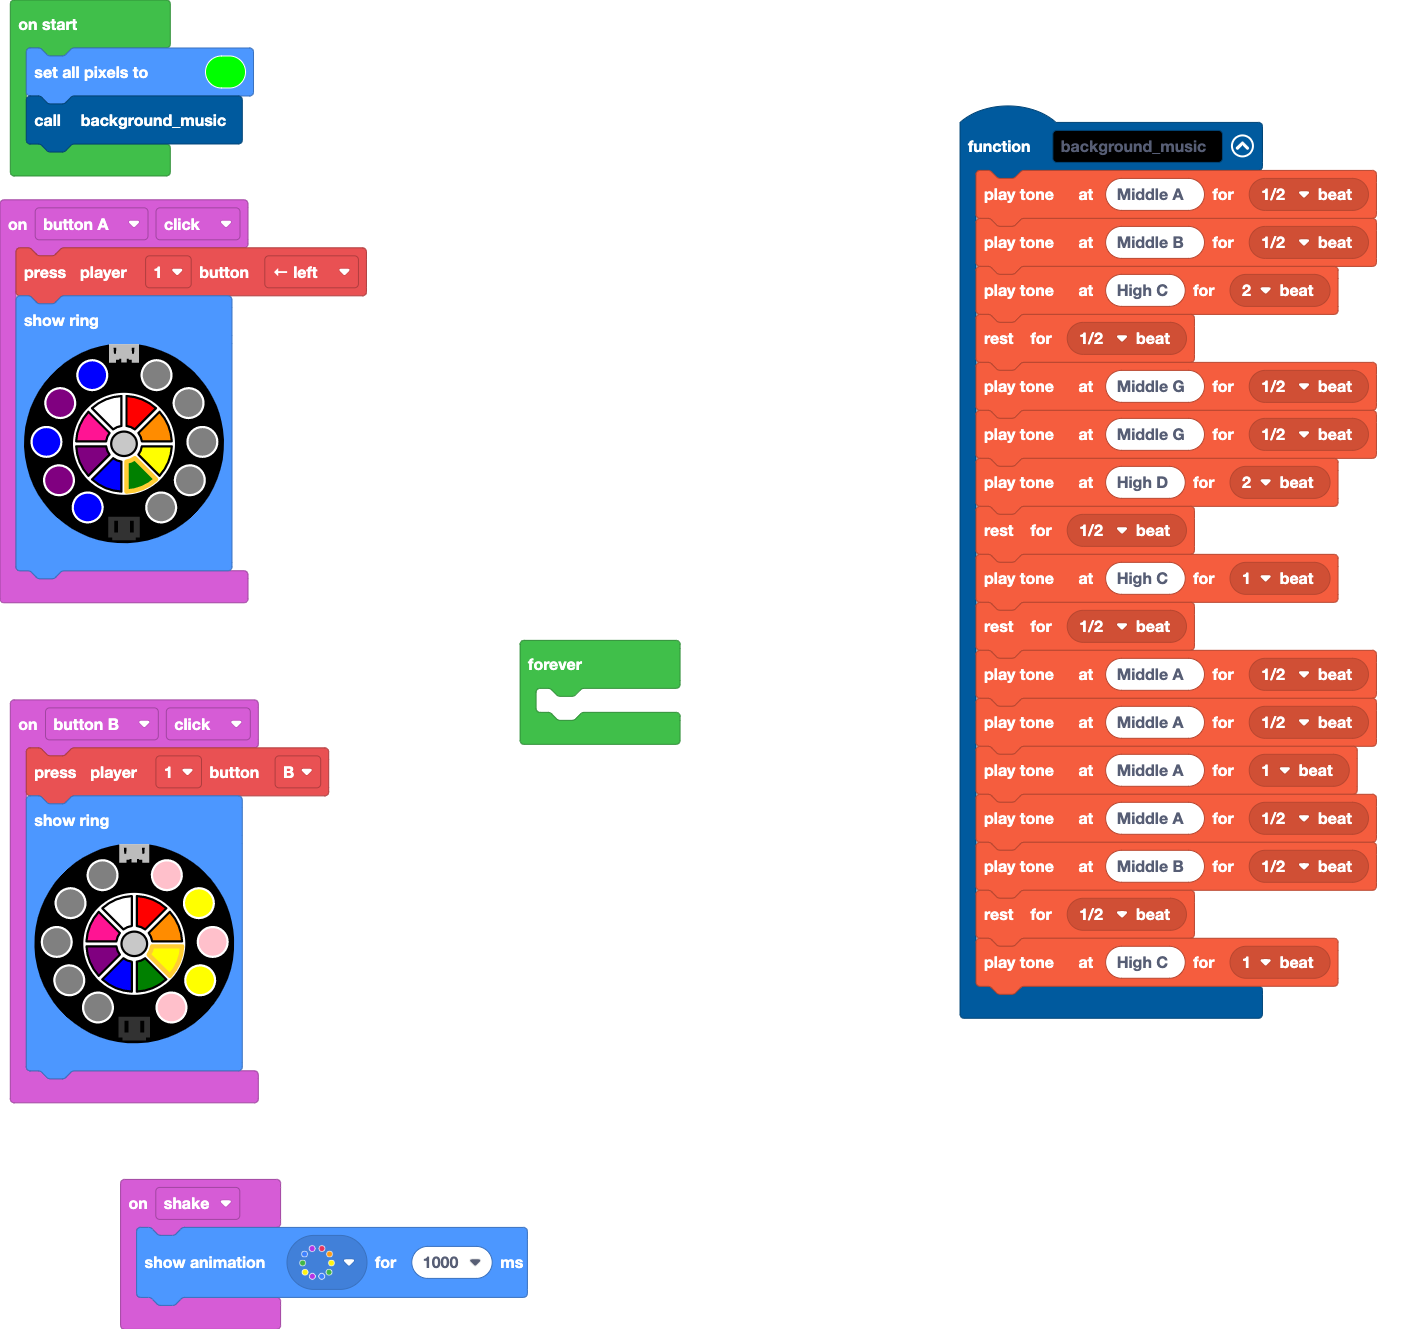
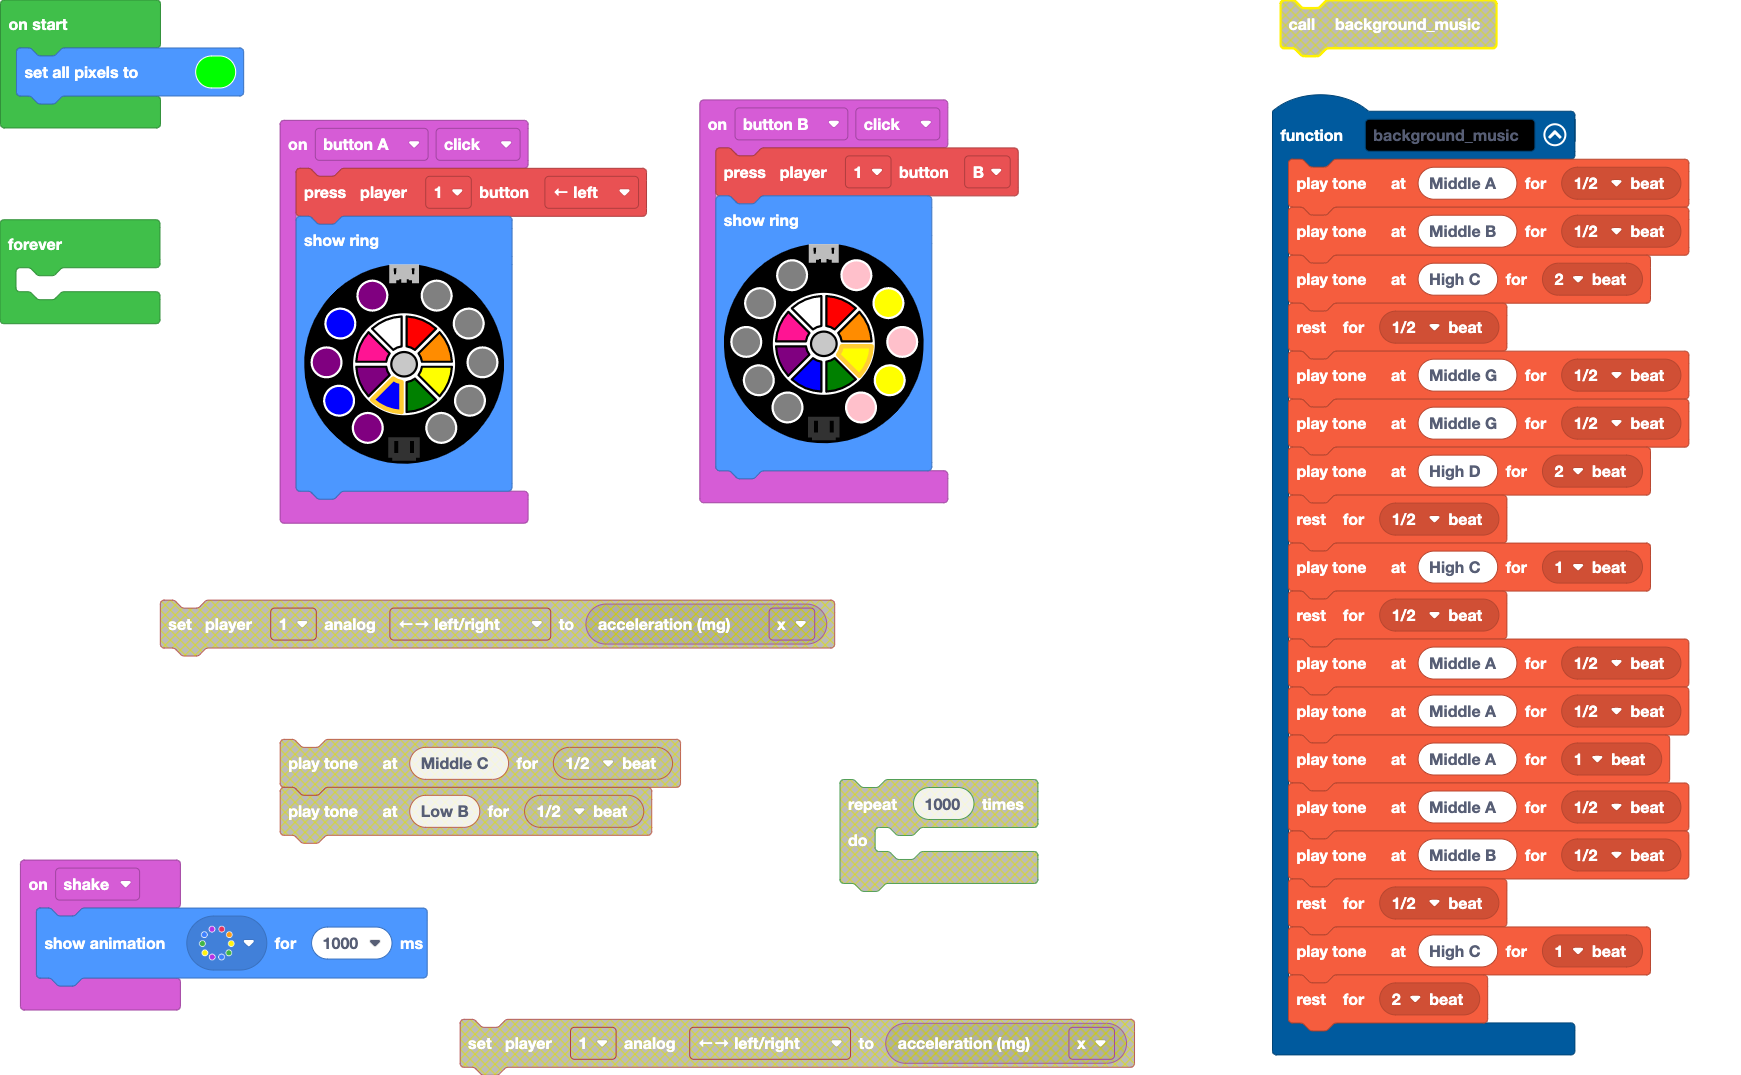
Update main.blocks, main.ts

diff --git a/main.ts b/main.ts
@@ -1,7 +1,7 @@
 input.buttonA.onEvent(ButtonEvent.Click, function () {
     makerController.player1.press(ArcadeButton.Left)
     light.showRing(
-    `blue purple blue purple blue black black black black black`
+    `purple blue purple blue purple black black black black black`
     )
 })
 input.onGesture(Gesture.Shake, function () {
@@ -31,9 +31,9 @@ function background_music () {
     music.playTone(494, music.beat(BeatFraction.Half))
     music.rest(music.beat(BeatFraction.Half))
     music.playTone(523, music.beat(BeatFraction.Whole))
+    music.rest(music.beat(BeatFraction.Double))
 }
 light.setAll(0x00ff00)
-background_music()
 forever(function () {
 	
 })
